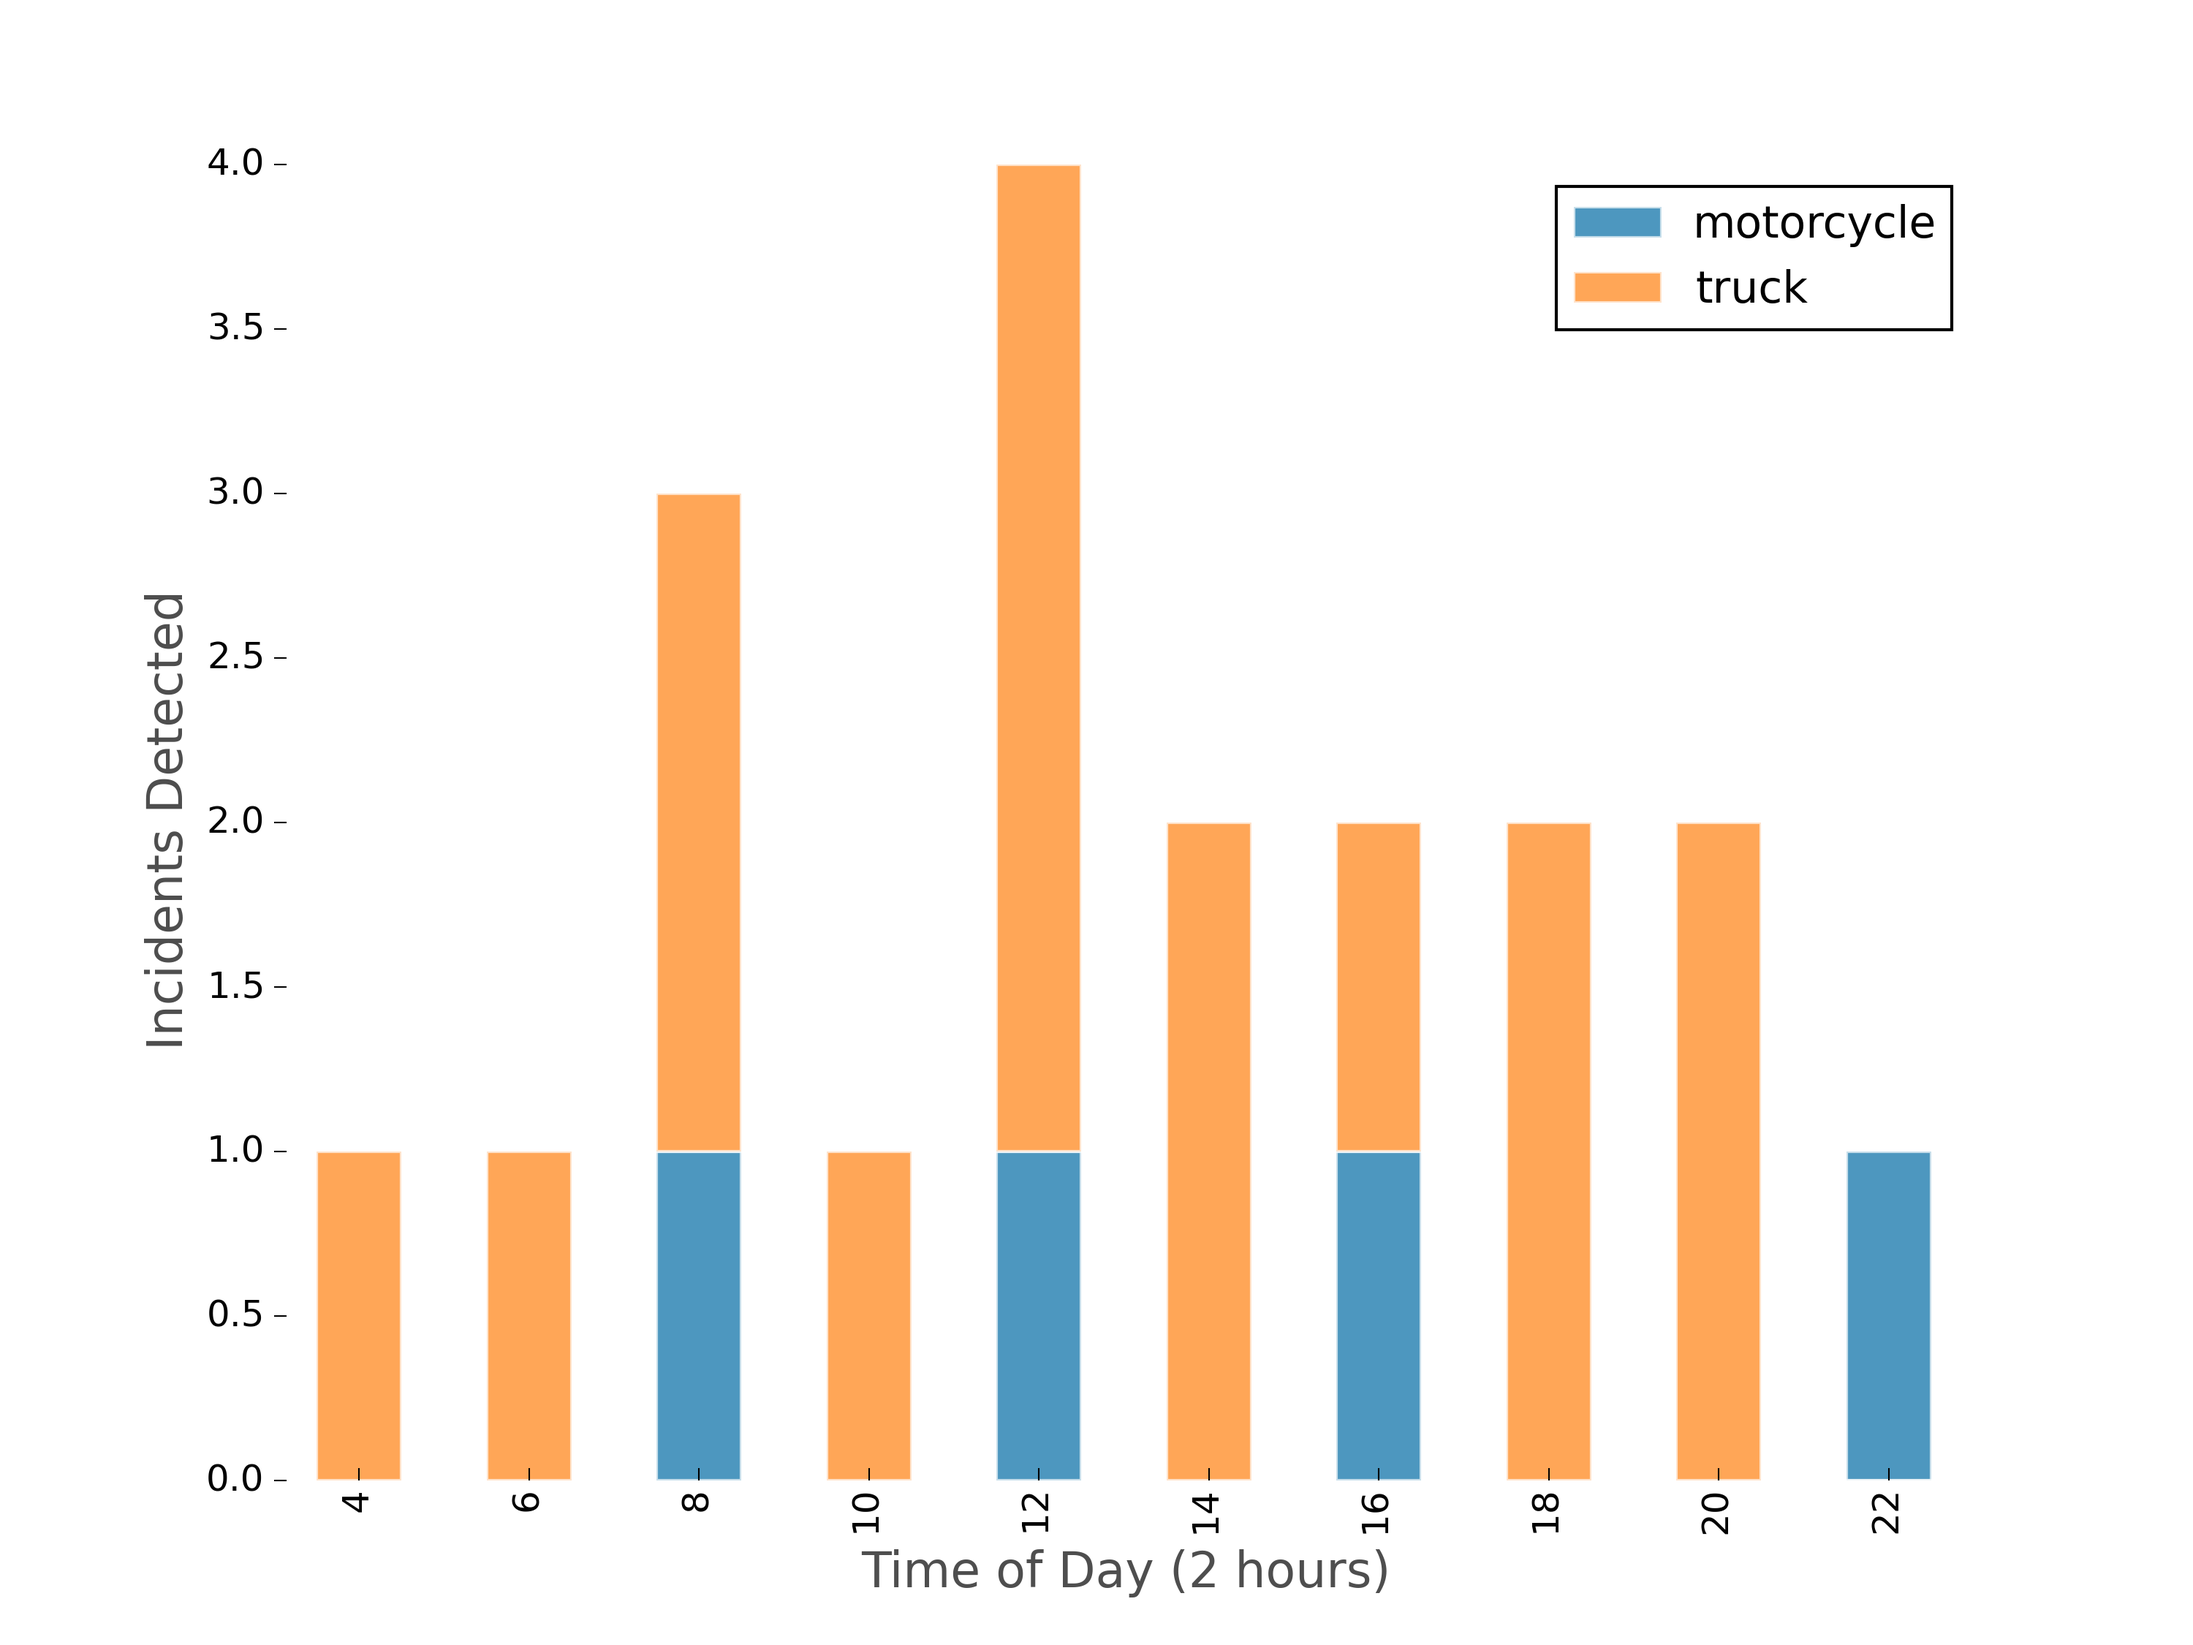
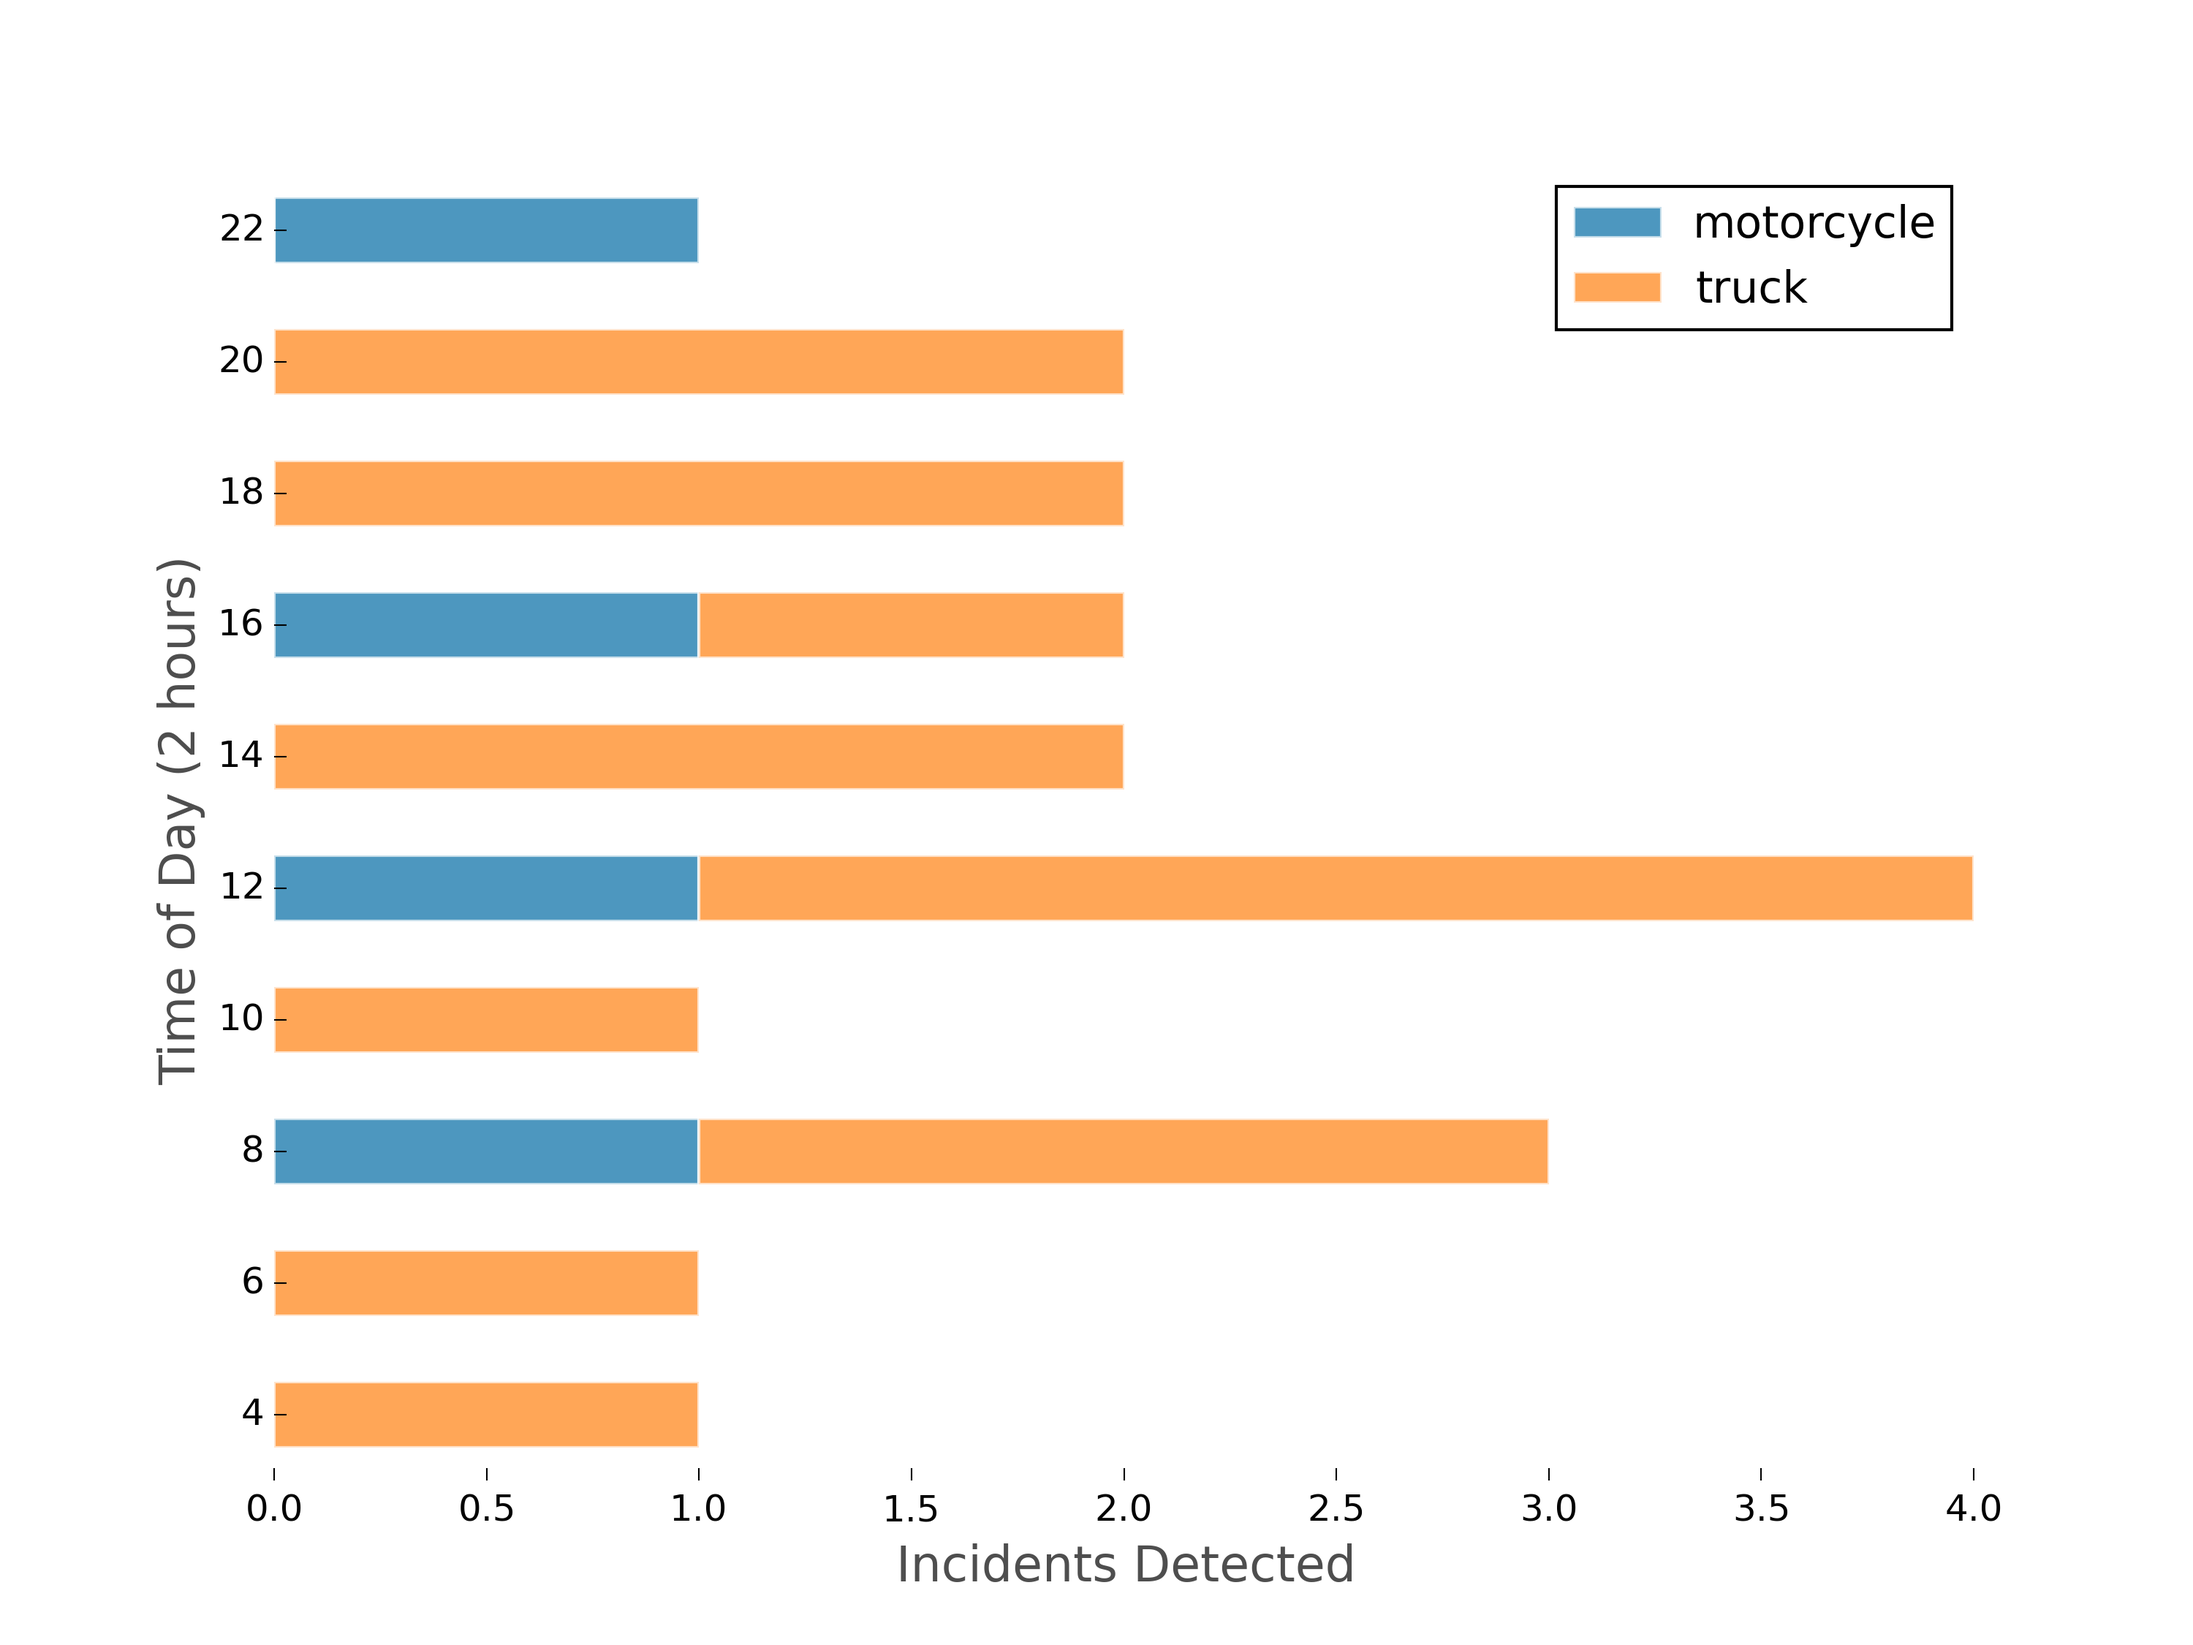
tweaks to graph setups

Changed region(s): [[0.062, 0.0933, 0.899, 0.9644], [0.837, 0.6844, 0.899, 0.9333]]

diff --git a/RFCx-Alert-Graphs.py b/RFCx-Alert-Graphs.py
@@ -29,6 +29,37 @@ json_obj = """
 ]
 """
 
+'''
+"01/23/2015 10:49:50",
+"01/23/2015 11:07:52",
+"01/23/2015 11:19:54",
+"01/23/2015 11:49:58",
+"01/23/2015 12:26:03",
+"01/23/2015 12:32:03",
+"01/23/2015 12:38:04",
+"01/23/2015 12:44:05",
+"01/23/2015 12:50:06",
+"01/23/2015 12:56:06",
+"01/23/2015 15:26:26",
+"01/23/2015 16:32:34",
+"01/23/2015 16:38:35",
+"01/23/2015 17:26:41",
+"01/23/2015 18:20:48",
+"01/23/2015 18:38:51",
+"01/23/2015 19:02:54",
+"01/23/2015 19:51:01",
+"01/23/2015 19:51:01",
+"01/23/2015 21:39:15",
+"01/24/2015 02:09:51",
+"01/24/2015 02:15:51",
+"01/24/2015 03:09:59",
+"01/24/2015 03:15:59",
+"01/24/2015 03:46:04",
+"01/24/2015 03:52:05",
+"01/24/2015 04:40:13",
+"01/24/2015 04:40:13",
+'''
+
 # Load the JSON data into a Pandas DataFrame
 data = json.loads(json_obj)
 df = pd.io.json.json_normalize(data)
@@ -163,51 +194,8 @@ fig = plt.figure(figsize=(10, 7.5))
 ax = fig.add_subplot(111)
 # set transparency
 a = 0.7
-ax = hr_pivot.plot(kind='bar', stacked=True, color=palette, legend=True, ax=ax, alpha=a,
-                    edgecolor='w', ylim=(0,max(tot_hr.values())))
-# Remove the plot frame lines
-ax = plt.subplot(111)
-ax.spines["top"].set_visible(False)
-ax.spines["bottom"].set_visible(False)
-ax.spines["right"].set_visible(False)
-ax.spines["left"].set_visible(False)
-# Ensure that the axis ticks only show up on the bottom and left of the plot.
-ax.get_xaxis().tick_bottom()
-ax.get_yaxis().tick_left()
-# Remove grid lines (dotted lines inside plot)
-ax.grid(False)
-# Remove plot frame
-ax.set_frame_on(False)
-# Pandas trick: remove weird dotted line on axis
-ax.lines[0].set_visible(False)
-# Customize title, set position, allow space on top of plot for title
-ax.set_title("", fontsize=26, alpha=a, ha='left')
-plt.subplots_adjust(top=0.9)
-ax.title.set_position((0,1.08))
-# Setup the legend labels properly
-patches, labels = ax.get_legend_handles_labels()
-# clean up auto-set labels from pivot tables
-labels = [e[1] for e in [str(l).replace("(","").replace(")","").split(", ") for l in labels]]
-ax.legend(patches, labels, loc='best')
-# Set y axis label, set label text
-ylab = 'Incidents Detected'
-ax.set_ylabel(ylab, fontsize=16, alpha=a, ha='center')
-# Set x axis label, set label text
-xlab = 'Time of Day (2 hours)'
-ax.set_xlabel(xlab, fontsize=16, alpha=a, ha='center')
-# Save figure as png
-plt.savefig('figures/alerts_by_hour.png', dpi=300)
-
-
-#### Graph 3: Alerts By Weekday
-# Create a figure of given size. Common sizes: (10, 7.5) and (12, 9)
-fig = plt.figure(figsize=(10, 7.5))
-# Add a subplot
-ax = fig.add_subplot(111)
-# set transparency
-a = 0.7
-ax = day_pivot.plot(kind='barh', stacked=True, color=palette, legend=True, ax=ax, alpha=a,
-                      edgecolor='w', xlim=(0,max(tot_day.values())))
+ax = hr_pivot.plot(kind='barh', stacked=True, color=palette, legend=True, ax=ax, alpha=a,
+                    edgecolor='w', xlim=(0,max(tot_hr.values())))
 # Remove the plot frame lines
 ax = plt.subplot(111)
 ax.spines["top"].set_visible(False)
@@ -236,12 +224,55 @@ ax.legend(patches, labels, loc='best')
 xlab = 'Incidents Detected'
 ax.set_xlabel(xlab, fontsize=16, alpha=a, ha='center')
 # Set y axis label, set label text
-ylab = 'Day of Week'
+ylab = 'Time of Day (2 hours)'
 ax.set_ylabel(ylab, fontsize=16, alpha=a, ha='center')
-ys = sorted(ax.get_yticks())
-ax.set_yticks(ys)
-ax.set_yticks([], minor=True)
-ax.set_yticklabels([weekday_map[d] for d in wd])
+# Save figure as png
+plt.savefig('figures/alerts_by_hour.png', dpi=300)
+
+
+#### Graph 3: Alerts By Weekday
+# Create a figure of given size. Common sizes: (10, 7.5) and (12, 9)
+fig = plt.figure(figsize=(10, 7.5))
+# Add a subplot
+ax = fig.add_subplot(111)
+# set transparency
+a = 0.7
+ax = day_pivot.plot(kind='bar', stacked=True, color=palette, legend=True, ax=ax, alpha=a,
+                      edgecolor='w', ylim=(0,max(tot_day.values())))
+# Remove the plot frame lines
+ax = plt.subplot(111)
+ax.spines["top"].set_visible(False)
+ax.spines["bottom"].set_visible(False)
+ax.spines["right"].set_visible(False)
+ax.spines["left"].set_visible(False)
+# Ensure that the axis ticks only show up on the bottom and left of the plot.
+ax.get_xaxis().tick_bottom()
+ax.get_yaxis().tick_left()
+# Remove grid lines (dotted lines inside plot)
+ax.grid(False)
+# Remove plot frame
+ax.set_frame_on(False)
+# Pandas trick: remove weird dotted line on axis
+ax.lines[0].set_visible(False)
+# Customize title, set position, allow space on top of plot for title
+ax.set_title("", fontsize=26, alpha=a, ha='left')
+plt.subplots_adjust(top=0.9)
+ax.title.set_position((0,1.08))
+# Setup the legend labels properly
+patches, labels = ax.get_legend_handles_labels()
+# clean up auto-set labels from pivot tables
+labels = [e[1] for e in [str(l).replace("(","").replace(")","").split(", ") for l in labels]]
+ax.legend(patches, labels, loc='best')
+# Set y axis label, set label text
+ylab = 'Incidents Detected'
+ax.set_ylabel(ylab, fontsize=16, alpha=a, ha='center')
+# Set x axis label, set label text
+xlab = 'Day of Week'
+ax.set_xlabel(xlab, fontsize=16, alpha=a, ha='center')
+xs = sorted(ax.get_xticks())
+ax.set_xticks(xs)
+ax.set_xticks([], minor=True)
+ax.set_xticklabels([weekday_map[d] for d in wd])
 # Save figure as png
 plt.savefig('figures/alerts_by_weekday.png', dpi=300)
 

diff --git a/alert_event_files.py b/alert_event_files.py
@@ -4,39 +4,23 @@ import datetime
 
 out_file = '/home/kak9699/Documents/code/RFCx/rfcx-data-vizualization/alert_mod_times.txt'
 base_path = '/media/2GB/'
-event_files = ["1422006590326.m4a",
-"1422007672668.m4a",
-"1422008394211.m4a",
-"1422010198247.m4a",
-"1422012363033.m4a",
-"1422012723811.m4a",
-"1422013084563.m4a",
-"1422013445350.m4a",
-"1422013806137.m4a",
-"1422014166899.m4a",
-"1422023186129.m4a",
-"1422027154676.m4a",
-"1422027515501.m4a",
-"1422030401858.m4a",
-"1422033648917.m4a",
-"1422034731267.m4a",
-"1422036174437.m4a",
-"1422039061212.m4a",
-"1422039061212.m4a",
-"1422045555256.m4a",
-"1422061791092.m4a",
-"1422062151916.m4a",
-"1422065399030.m4a",
-"1422065759897.m4a",
-"1422067564442.m4a",
-"1422067925519.m4a",
-"1422070813646.m4a",
-"1422070813646.m4a"]
+event_files = [1422006590326,1422007672668,1422008394211,1422010198247,
+1422012363033,1422012723811,1422013084563,1422013445350,1422013806137,
+1422014166899,1422023186129,1422027154676,1422027515501,1422030401858,
+1422033648917,1422034731267,1422036174437,1422039061212,1422039061212,
+1422045555256,1422061791092,1422062151916,1422065399030,1422065759897,
+    1422067564442,1422067925519,1422070813646,1422070813646]
+dates = [
+Fri Jan 23 2015 10:49:50
+Fri Jan 23 2015 11:07:52
+Fri Jan 23 2015 11:19:54
+Fri Jan 23 2015 11:49:58
 
+]
 with open(out_file, 'w') as f:
     for snd in event_files:
         try:
-            date_modified = datetime.datetime.fromtimestamp(os.stat(base_path+snd).st_mtime).strftime('%Y-%m-%d %H:%M:%S')
+            date_modified = datetime.datetime.fromtimestamp(snd[:-4]).strftime('%Y-%m-%d %H:%M:%S')
             f.write(snd + '\t' + date_modified + '\n')
         except:
             f.write(snd + ' ERROR!\n')
